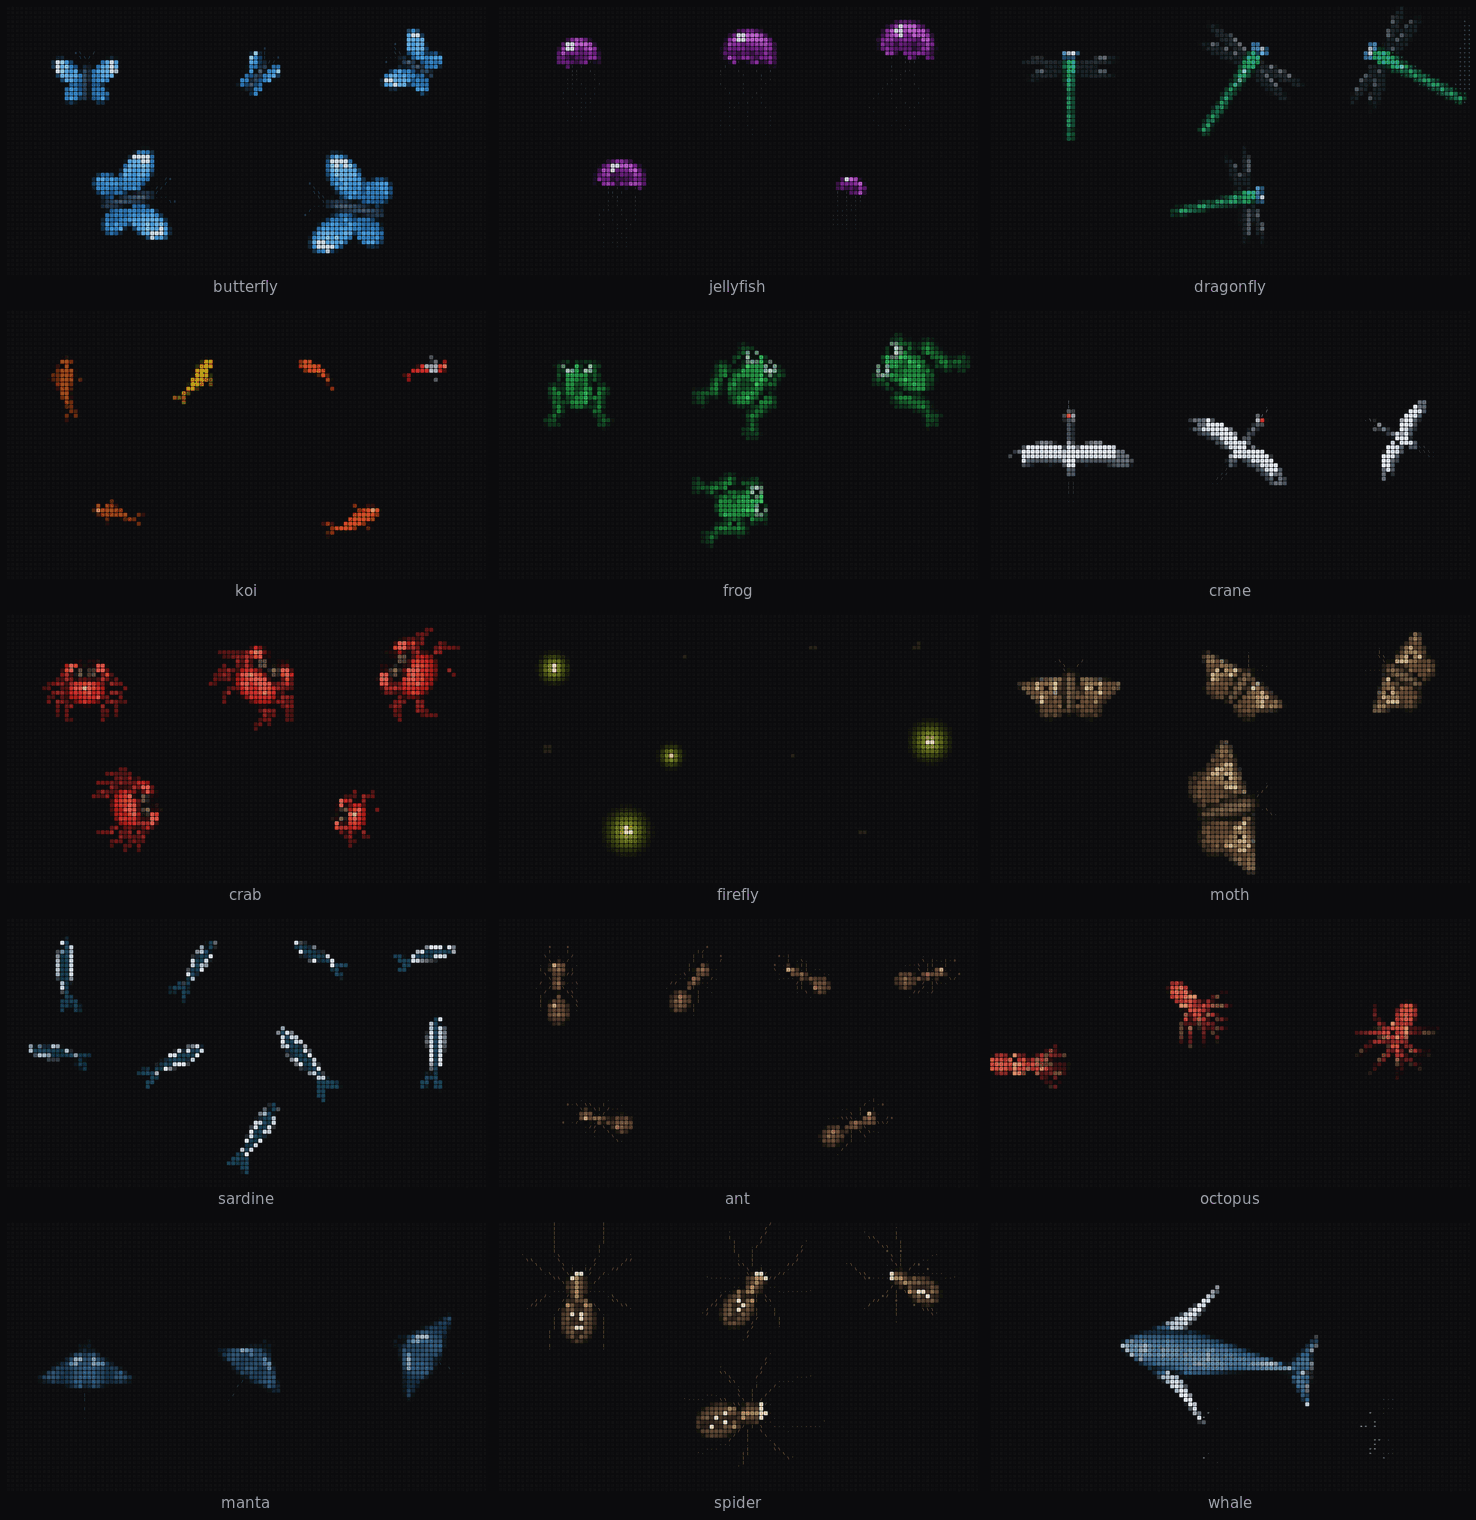
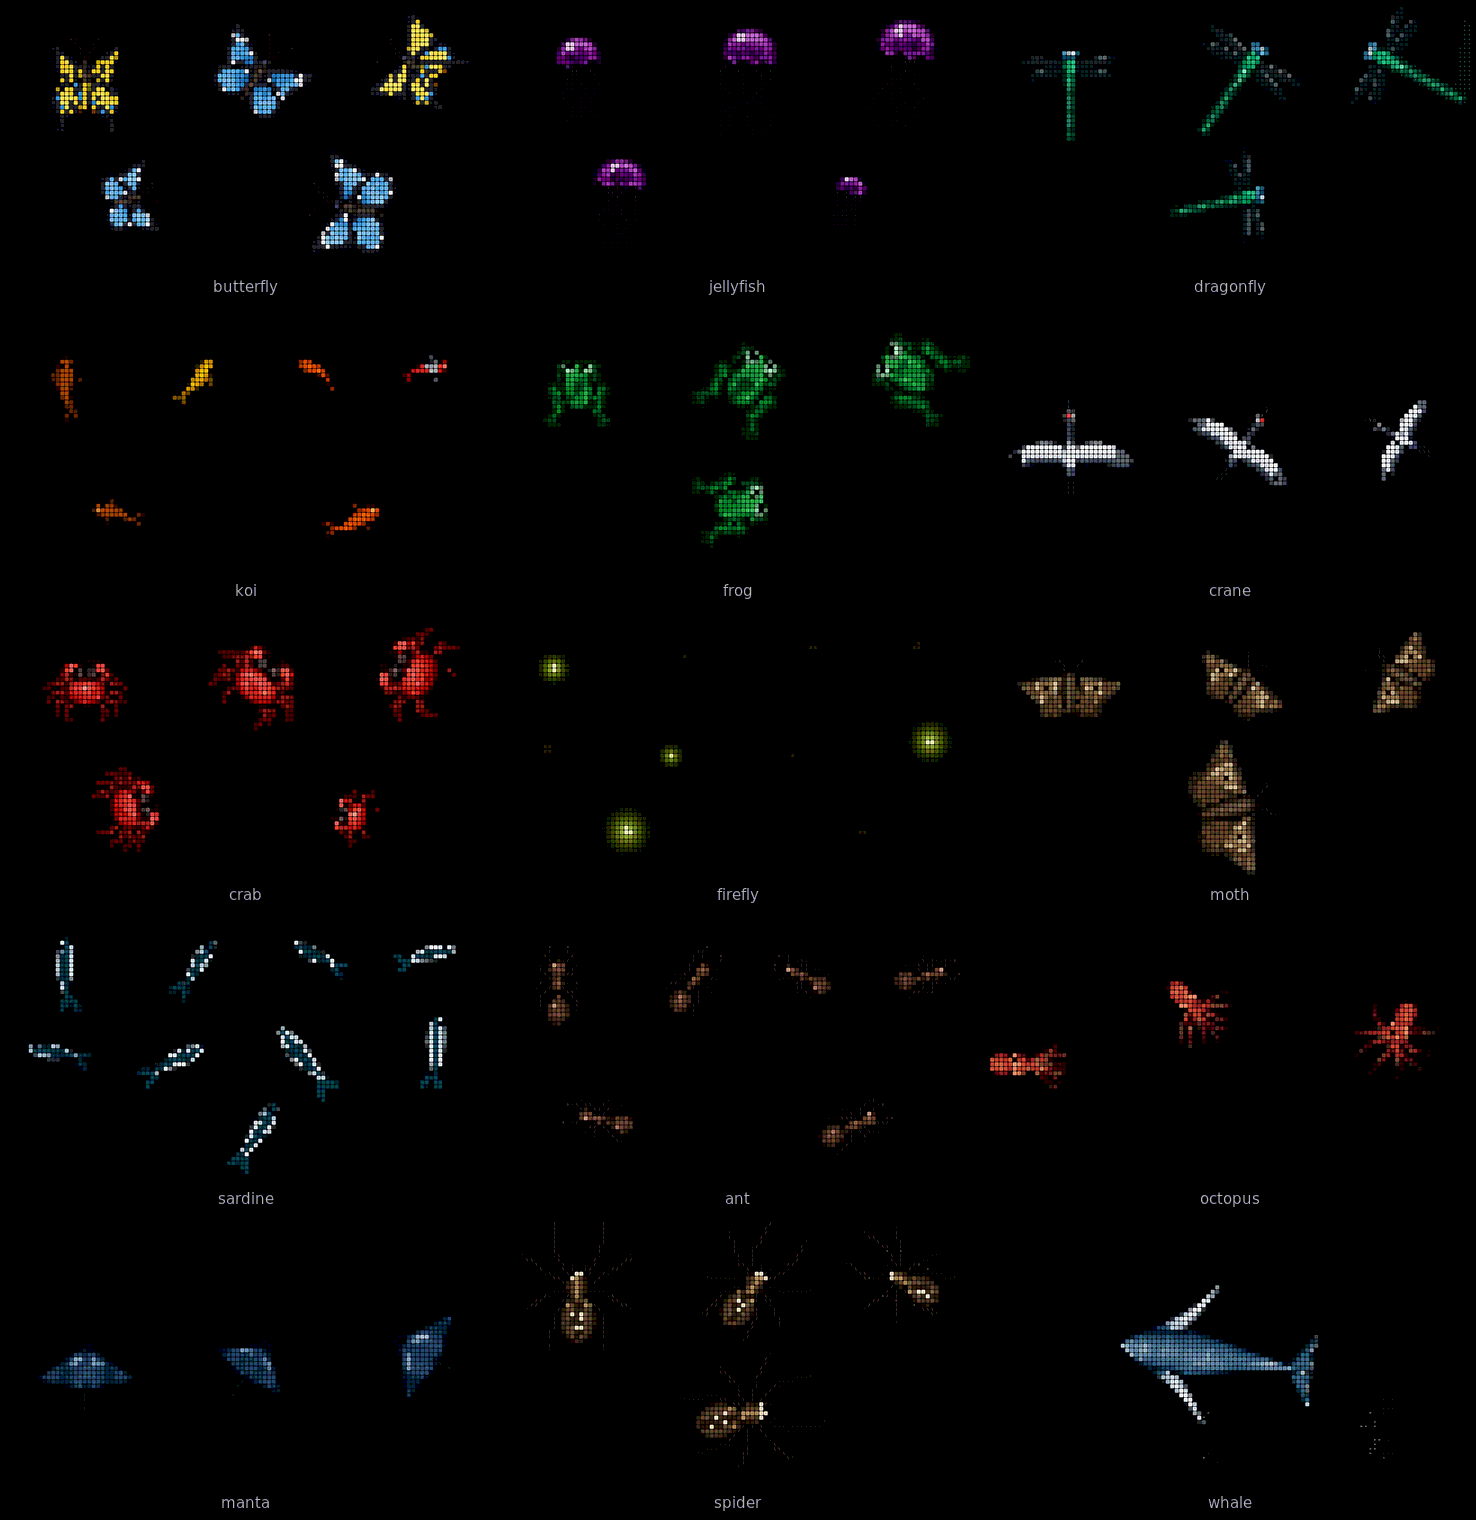
Butterfly: three real species (blue morpho, monarch, tiger swallowtail), proper wing shapes, lagging hindwings, gliding

diff --git a/src/animals/butterfly.ts b/src/animals/butterfly.ts
@@ -1,82 +1,253 @@
 import type { AnimalDef, Entity, Stamper } from './types';
 import { easeDrawHeading, placeAtEdge } from './common';
-import { clamp01, ellipse, G, smooth, softCov } from '../engine/shapes';
+import { capsule, clamp01, ellipse, G, sdCov, sdTriangle, smooth } from '../engine/shapes';
 import { hash2, range } from '../math/rng';
 import { vnoise } from '../math/noise';
 import { approach } from '../math/vec2';
 
-// Spec §7.1 / §9.1. Numbers are tuned against reference/butterfly-reference.html.
-const SPAN = 9.6; // bounding radius, cells
-const FORE = { cx: 4.4, cy: -2.5, rx: 4.4, ry: 2.5, rot: -0.72 }; // big, tip points forward-out
-const HIND = { cx: 3.0, cy: 2.5, rx: 2.9, ry: 2.2, rot: 0.8 }; // smaller, rounder, behind
+// Butterflies, three real species mixed in one flock:
+//  · blue morpho: iridescent blue that shimmers as the wings tilt, a dark base, a black border with
+//    white spots;
+//  · monarch: orange with black veins, a black border with two rows of white dots, a black wing tip
+//    with pale spots;
+//  · tiger swallowtail: yellow with black tiger stripes, a black border with yellow crescents, blue and
+//    orange spots by the tails, and the tails themselves.
+// Proper wing shapes: a pointed forewing with a straight leading edge over a rounded hindwing. A furry
+// thorax, segmented abdomen and clubbed antennae. Flight: the hindwings beat a fraction behind the
+// forewings, each downstroke surges the body forward, and now and then it stops flapping and glides
+// with its wings spread. A click scatters them.
+const SPAN = 9.9; // bounding radius, cells
+
+const MORPHO = 0;
+const MONARCH = 1;
+const SWALLOW = 2;
+
+// Forewing: root, apex, tornus (rounded below). Hindwing: an ellipse; the swallowtail adds a tail.
+const FA = [0.45, -1.7];
+const FB = [7.5, -5.0];
+const FC = [5.5, 0.5];
+const FROUND = 0.55;
+const HIND = { cx: 3.1, cy: 2.3, rx: 3.3, ry: 2.7, rot: 0.55 };
+
+interface ButterflyData {
+  species: number;
+  glide: number; // 0 flapping … 1 gliding with wings spread
+}
 
 // Per-entity render state, set before forEachCell so the cell callback allocates nothing.
 let S: Stamper;
 let cur: Entity;
-let fold = 1;
-let palWing = 0;
+let species = 0;
+let foldF = 1; // forewing width factor (1 open … small edge-on)
+let foldH = 1; // hindwing lags the forewing a little
+let shimmer = 0;
+let palBlue = 0;
+let palOrange = 0;
+let palYellow = 0;
+let palInk = 0;
+let palWhite = 0;
 let palBody = 0;
-const antenna = new Float32Array(16);
+const antenna = new Float32Array(18);
+
+const fract = (x: number): number => x - Math.floor(x);
+
+/** Is (ax, v) on a radial wing vein (vein spacing ~K per radian from the root)? */
+function onVein(ang: number, r: number, K: number, width: number): boolean {
+  const a = ang * K;
+  return r > 1.3 && (Math.abs(a - Math.round(a)) / K) * r < width;
+}
+
+function body(u: number, v: number, col: number, row: number): boolean {
+  if (u > 0.95 || u < -0.95 || v < -3.4 || v > 4.6) return false; // far from the body: skip
+  const z = cur.z;
+  // Head, furry thorax, then a tapering segmented abdomen.
+  const eh = ellipse(u, v, 0, -2.75, 0.55, 0.5, 0);
+  const et = ellipse(u, v, 0, -1.05, 0.72, 1.15, 0);
+  const t = clamp01(v / 4.0);
+  const ab = capsule(u, v, 0, 0.2, 0, 4.0) / (0.55 - 0.3 * t);
+  const e = Math.min(eh, et, ab);
+  if (e >= 1.15) return false;
+  let p = palBody;
+  let sh = 0.35 + 0.35 * (1 - clamp01(e)) + (hash2(col * 5 + 3, row * 7 + cur.id) - 0.5) * 0.18; // fur
+  if (ab <= Math.min(eh, et) && (Math.floor(v * 2.4) & 1) === 0) sh -= 0.12; // abdomen segments
+  if (species === MONARCH && e === et && hash2(col * 3, row * 11 + cur.id) > 0.8) {
+    p = palWhite; // white dots on a monarch's thorax
+    sh = 0.7;
+  } else if (species === SWALLOW && ab <= Math.min(eh, et) && Math.abs(u) > 0.18) {
+    p = palYellow; // yellow side stripes on the abdomen
+    sh = 0.55;
+  }
+  // Eyes.
+  const ex = Math.abs(u) - 0.38;
+  const ey = v + 2.85;
+  if (ex * ex + ey * ey < 0.05) {
+    p = palInk;
+    sh = 0.9;
+  }
+  S.stamp(col, row, S.tileKey(p, sh), sdCov((e - 1) * 1.6), z + 0.5);
+  return e < 0.85;
+}
 
 function cellFn(u: number, v: number, col: number, row: number): void {
+  if (body(u, v, col, row)) return;
   const z = cur.z;
-  // Body: thin capsule + head, darkest tiles, drawn above the wings.
-  const bv = v < -3.0 ? -3.0 : v > 3.6 ? 3.6 : v;
-  const bodyR = v < 0 ? 0.75 : 0.6; // thorax a bit thicker than abdomen
-  const dBody = Math.sqrt(u * u + (v - bv) * (v - bv));
-  const dHead = Math.sqrt(u * u + (v + 3.9) * (v + 3.9));
-  const bodyCov = Math.max(smooth(bodyR + 0.45, bodyR - 0.1, dBody), smooth(1.15, 0.6, dHead));
-  if (bodyCov > 0.05) {
-    const sh = 0.3 + 0.55 * (1 - clamp01(dBody)) - 0.12 * clamp01(v / 3.6);
-    S.stamp(col, row, S.tileKey(palBody, sh), bodyCov, z + 0.5);
-    if (bodyCov > 0.6) return;
+  const au = Math.abs(u);
+
+  // ---- which wing: the forewing lies over the hindwing ----
+  const fx = au / foldF;
+  const hx = au / foldH;
+  // Bounding boxes first: most cells around a butterfly are outside both wings.
+  const sdF = fx < 8.7 && v > -6.2 && v < 1.7 ? sdTriangle(fx, v, FA[0], FA[1], FB[0], FB[1], FC[0], FC[1]) - FROUND : 9;
+  let sdH = hx < 7.2 && v > -1.2 && v < 6.0 ? (ellipse(hx, v, HIND.cx, HIND.cy, HIND.rx, HIND.ry, HIND.rot) - 1) * 2.6 : 9;
+  let tail = false;
+  if (species === SWALLOW) {
+    const dt = capsule(hx, v, 4.1, 4.3, 4.8, 7.2) - 0.48;
+    if (dt < sdH) {
+      sdH = dt;
+      tail = dt < 0.6; // only cells actually on the tail
+    }
   }
+  const fore = sdF < 0.25 || sdF <= sdH;
+  if (fore) tail = false;
+  const sd = fore ? sdF : sdH;
+  if (sd > 0.6) return;
+  const ax = fore ? fx : hx;
+  const fold = fore ? foldF : foldH;
+  const depth = -sd; // how far inside the wing edge (cells)
+  const dx = ax - 0.5;
+  const dy = v + 0.6;
+  const r = Math.sqrt(dx * dx + dy * dy); // from the wing root
+  const ang = Math.atan2(dy, dx);
 
-  // Wings: two ellipses per side, mirrored, squashed by the fold.
-  const ax = Math.abs(u) / fold;
-  const e1 = ellipse(ax, v, FORE.cx, FORE.cy, FORE.rx, FORE.ry, FORE.rot);
-  const e2 = ellipse(ax, v, HIND.cx, HIND.cy, HIND.rx, HIND.ry, HIND.rot);
-  const e = Math.min(e1, e2);
-  if (e >= 1.12) return;
-  const cov = softCov(e);
-
-  let sh = 0.34 + 0.5 * clamp01(ax / 8); // lighter toward the tips
-  sh += e1 < e2 ? 0.05 : -0.05; // forewing a touch brighter
-  sh -= 0.5 * smooth(0.7, 1.0, e) * sh; // darker rim
-  sh -= 0.12 * smooth(1.4, 0.0, ax); // darker where the wing meets the body
-  sh += (hash2(Math.floor(ax * 1.8) + (u < 0 ? 97 : 0), Math.floor(v * 1.8) + cur.id * 31) - 0.5) * 0.2; // mottling
-  const t1x = ax - 6.6;
-  const t1y = v + 4.4;
-  const t2x = ax - 6.9;
-  const t2y = v + 2.9;
-  if (t1x * t1x + t1y * t1y < 0.64 || t2x * t2x + t2y * t2y < 0.36) sh = 0.97; // tip spots
-  sh *= 0.62 + 0.38 * fold; // folded wings read darker (seen edge-on)
-  S.stamp(col, row, S.tileKey(palWing, sh), cov, z);
+  let p = palInk;
+  let sh = 0.4;
+  if (species === MORPHO) {
+    // Iridescent blue, brightest mid-wing, shimmering as the wing tilts; dark blue-black at the base.
+    p = palBlue;
+    sh = 0.5 + 0.25 * smooth(0.8, 4.0, r) + 0.18 * shimmer + Math.sin(ax * 0.9 + v * 0.7 + cur.seed) * 0.05;
+    if (r < 1.5) sh = 0.22 + 0.2 * smooth(0.6, 1.5, r);
+    if (onVein(ang, r, 5.2, 0.13)) sh -= 0.1;
+    const bw = fore ? 0.85 : 0.7;
+    if (depth < bw) {
+      p = palInk;
+      sh = 0.62;
+      if (depth > 0.25 && depth < bw - 0.1 && fract(ang * 3.4 + 0.5) < 0.3) {
+        p = palWhite;
+        sh = 0.8; // white spots in the border
+      }
+    }
+    if (fore) {
+      const sx = ax - 6.0;
+      const sy = v + 3.7;
+      if (sx * sx + sy * sy < 0.32) {
+        p = palWhite;
+        sh = 0.9; // apical spot
+      }
+    }
+  } else if (species === MONARCH) {
+    p = palOrange;
+    sh = 0.64 + 0.12 * smooth(1.0, 4.0, r) + (fore ? 0 : 0.05);
+    if (onVein(ang, r, 4.0, 0.12)) {
+      p = palInk;
+      sh = 0.55; // black veins
+    }
+    let black = depth < 0.65;
+    // Black wing tip with a band of pale spots.
+    if (fore) {
+      const tx = ax - FB[0];
+      const ty = v - FB[1];
+      if (tx * tx + ty * ty < 1.8 * 1.8) black = true;
+    }
+    if (black) {
+      p = palInk;
+      sh = 0.62;
+      // Two rows of white dots in the border, and pale spots in the tip.
+      if (depth > 0.2 && depth < 0.5) {
+        if (fract(ang * 4.2 + (depth > 0.5 ? 0.5 : 0)) < 0.3) {
+          p = palWhite;
+          sh = 0.85;
+        }
+      }
+      if (fore) {
+        for (let i = 0; i < 4; i++) {
+          const sx = ax - (5.0 + 0.55 * i);
+          const sy = v - (-3.0 - 0.45 * i);
+          if (sx * sx + sy * sy < 0.13) {
+            p = i < 2 ? palOrange : palWhite;
+            sh = i < 2 ? 0.8 : 0.9;
+          }
+        }
+      }
+    }
+  } else {
+    // Tiger swallowtail.
+    p = palYellow;
+    sh = 0.62 + 0.08 * smooth(1, 4, r);
+    const st = ax * 0.92 - v * 0.42; // stripe coordinate across the wings
+    const stripe = (st > 0.8 && st < 1.35) || (fore && ((st > 2.8 && st < 3.2) || (st > 4.4 && st < 4.75)));
+    if (stripe || r < 0.8) {
+      p = palInk;
+      sh = 0.62;
+    }
+    if (onVein(ang, r, 5, 0.1)) sh -= 0.08;
+    const bw = fore ? 0.85 : 1.05;
+    if (tail || depth < bw) {
+      p = palInk;
+      sh = 0.62;
+      if (!tail && depth > 0.25 && depth < 0.6 && fract(ang * 3.8) < 0.5) {
+        p = palYellow;
+        sh = 0.6; // yellow crescents
+      }
+      if (!fore && !tail && depth > 0.65 && fract(ang * 3.8) < 0.4 && ang > 0.2) {
+        p = palBlue;
+        sh = 0.6; // blue spots near the tail
+      }
+    }
+    if (!fore) {
+      const ox = ax - 1.25;
+      const oy = v - 4.7;
+      if (ox * ox + oy * oy < 0.3) {
+        p = palOrange;
+        sh = 0.7; // orange eyespot by the inner edge
+      }
+    }
+  }
+  sh += (hash2(col * 3 + (u < 0 ? 97 : 0), row * 5 + cur.id * 31) - 0.5) * 0.06; // scale texture
+  sh -= 0.3 * smooth(-0.35, 0.2, sd) * sh; // rim
+  sh *= 0.62 + 0.38 * fold; // tilted wings catch less light
+  S.stamp(col, row, S.tileKey(p, sh), sdCov(sd), fore ? z : z - 0.05);
 }
 
 export const butterfly: AnimalDef = {
   id: 'butterfly',
   label: 'Butterfly',
   dot: '#449ad9',
-  baseCount: 26,
+  baseCount: 20,
   radius: SPAN,
   clickMode: 'scatter',
   edge: 'wrap',
   palettes: {
     wing: ['#06101e', '#0c2443', '#17497e', '#2a75b8', '#449ad9', '#6cb7ec', '#a3d6f7', '#eef8ff'],
-    body: ['#0b0f1a', '#182033', '#28344d', '#3e4d6b', '#5b6b8c'],
+    orange: ['#1a0a02', '#4a1d04', '#8a3a06', '#c85a0a', '#ec7d12', '#f8a23a', '#ffc874', '#ffe9c4'],
+    yellow: ['#1a1604', '#4a3f08', '#8c7810', '#d4b418', '#f4d43a', '#fbe67a', '#fff4bc', '#fffbe8'],
+    ink: ['#0a0a0d', '#17171c', '#24242b', '#33333d', '#454552', '#5c5c6c'],
+    white: ['#2a2a2e', '#8a8a90', '#d8d8dc', '#f4f4f6', '#ffffff'],
+    body: ['#141210', '#2a2420', '#3e352e', '#584b40', '#776656', '#9a8670'],
   },
   pal: {},
 
   spawn(world, rng, fromEdge) {
     const e = world.newEntity();
+    const roll = rng();
+    const d: ButterflyData = { species: roll < 0.45 ? MORPHO : roll < 0.75 ? MONARCH : SWALLOW, glide: 0 };
+    e.data = d;
     e.x = range(rng, 0, world.w);
     e.y = range(rng, 0, world.h);
     e.heading = range(rng, 0, Math.PI * 2);
-    e.speed = range(rng, 36, 62);
+    e.speed = range(rng, 36, 62) * (d.species === MONARCH ? 1.15 : 1);
     e.phase = range(rng, 0, 10);
     e.rate = range(rng, 3.4, 4.8);
-    e.scale = range(rng, 0.65, 1.45);
+    e.scale = range(rng, 0.9, 1.55);
     e.seed = range(rng, 0, 1000);
     if (fromEdge) placeAtEdge(e, world, rng, SPAN * e.scale * world.cell);
     e.drawHeading = e.heading;
@@ -84,35 +255,50 @@ export const butterfly: AnimalDef = {
   },
 
   update(e, dt, world) {
-    e.heading += (vnoise(world.t * 0.4 + e.seed) - 0.5) * 3.4 * dt; // smooth wander
-    const sp = e.speed * (1 + 2.2 * e.panic);
+    const d = e.data as ButterflyData;
+    // Now and then stop flapping and glide on spread wings (never while panicking).
+    const wantGlide = e.panic < 0.05 && vnoise(world.t * 0.22 + e.seed * 3.1) > 0.64 ? 1 : 0;
+    d.glide += (wantGlide - d.glide) * approach(3, dt);
+    e.heading += (vnoise(world.t * 0.4 + e.seed) - 0.5) * 3.4 * dt * (1 - 0.6 * d.glide); // smooth wander
+    // Each downstroke surges the body forward a little.
+    const stroke = 1 + 0.35 * Math.max(0, Math.sin(e.phase)) * (1 - d.glide);
+    const sp = e.speed * (1 + 2.2 * e.panic) * stroke;
     const k = approach(1.8, dt);
     e.vx += (Math.cos(e.heading) * sp - e.vx) * k;
     e.vy += (Math.sin(e.heading) * sp - e.vy) * k;
-    const bob = Math.sin(e.phase * 0.5) * 12; // fluttery side-to-side
+    const bob = Math.sin(e.phase * 0.5) * 12 * (1 - d.glide); // fluttery side-to-side
     e.x += (e.vx - Math.sin(e.heading) * bob) * dt;
     e.y += (e.vy + Math.cos(e.heading) * bob) * dt;
-    e.phase += dt * e.rate * Math.PI * 2 * (1 + 0.9 * e.panic);
+    e.phase += dt * e.rate * Math.PI * 2 * (1 + 0.9 * e.panic) * (1 - 0.88 * d.glide);
     easeDrawHeading(e, dt);
   },
 
   render(e, s) {
     S = s;
     cur = e;
-    palWing = this.pal.wing;
+    const d = e.data as ButterflyData;
+    species = d.species;
+    palBlue = this.pal.wing;
+    palOrange = this.pal.orange;
+    palYellow = this.pal.yellow;
+    palInk = this.pal.ink;
+    palWhite = this.pal.white;
     palBody = this.pal.body;
-    // Wings fold toward the viewer: width 100% → ~16%, continuously. sqrt keeps them open longer.
-    fold = 0.16 + 0.84 * Math.sqrt(Math.abs(Math.cos(e.phase)));
+    // Wings fold toward the viewer: width 100% → ~16%. sqrt keeps them open longer; gliding holds them open.
+    const flap = (ph: number): number => 0.16 + 0.84 * Math.sqrt(Math.abs(Math.cos(ph)));
+    foldF = flap(e.phase) * (1 - d.glide) + 0.97 * d.glide;
+    foldH = flap(e.phase - 0.35) * (1 - d.glide) + 0.97 * d.glide;
+    shimmer = Math.sin(e.phase * 0.5 + e.seed) * 0.5 + (foldF - 0.6);
     s.forEachCell(e, SPAN, cellFn);
 
-    // Antennae: glyph-only cells, no tiles.
+    // Antennae: glyph-only, curving out, with clubbed tips.
     for (let side = -1; side <= 1; side += 2) {
-      for (let k = 0; k < 8; k++) {
-        const t = k / 7;
-        antenna[k * 2] = side * (0.3 + 0.5 * t + 1.4 * t * t);
-        antenna[k * 2 + 1] = -4.6 - 3.0 * t;
+      for (let k = 0; k < 9; k++) {
+        const t = k / 8;
+        antenna[k * 2] = side * (0.25 + 0.6 * t + 1.3 * t * t);
+        antenna[k * 2 + 1] = -3.2 - 3.4 * t;
       }
-      s.stampLine(e, antenna, 8, palWing, 0.55, e.z - 0.2, G.o);
+      s.stampLine(e, antenna, 9, palBody, 0.8, e.z - 0.2, G.o);
     }
   },
 };

diff --git a/README.md b/README.md
@@ -25,7 +25,7 @@ Videos (WebM, open in a browser):
 
 | Animal | How it lives | When you click |
 | :-- | :-- | :-- |
-| Butterfly | Flutters on a wandering path, wings beating | Scatters away from the click |
+| Butterfly | Three species in one flock (blue morpho, monarch, tiger swallowtail), each with its real wing pattern; flaps with the hindwings a beat behind, and glides on spread wings now and then | Scatters away from the click |
 | Jellyfish | Pulses upward and drifts, tentacles trailing and leaving a faint glow | Scatters, tentacles streaming behind |
 | Dragonfly | Hovers, then darts, on translucent wings, leaving a trail | Darts away at high speed |
 | Koi | Glides through the pond in several colour varieties | Drops food pellets that the fish race to eat |
